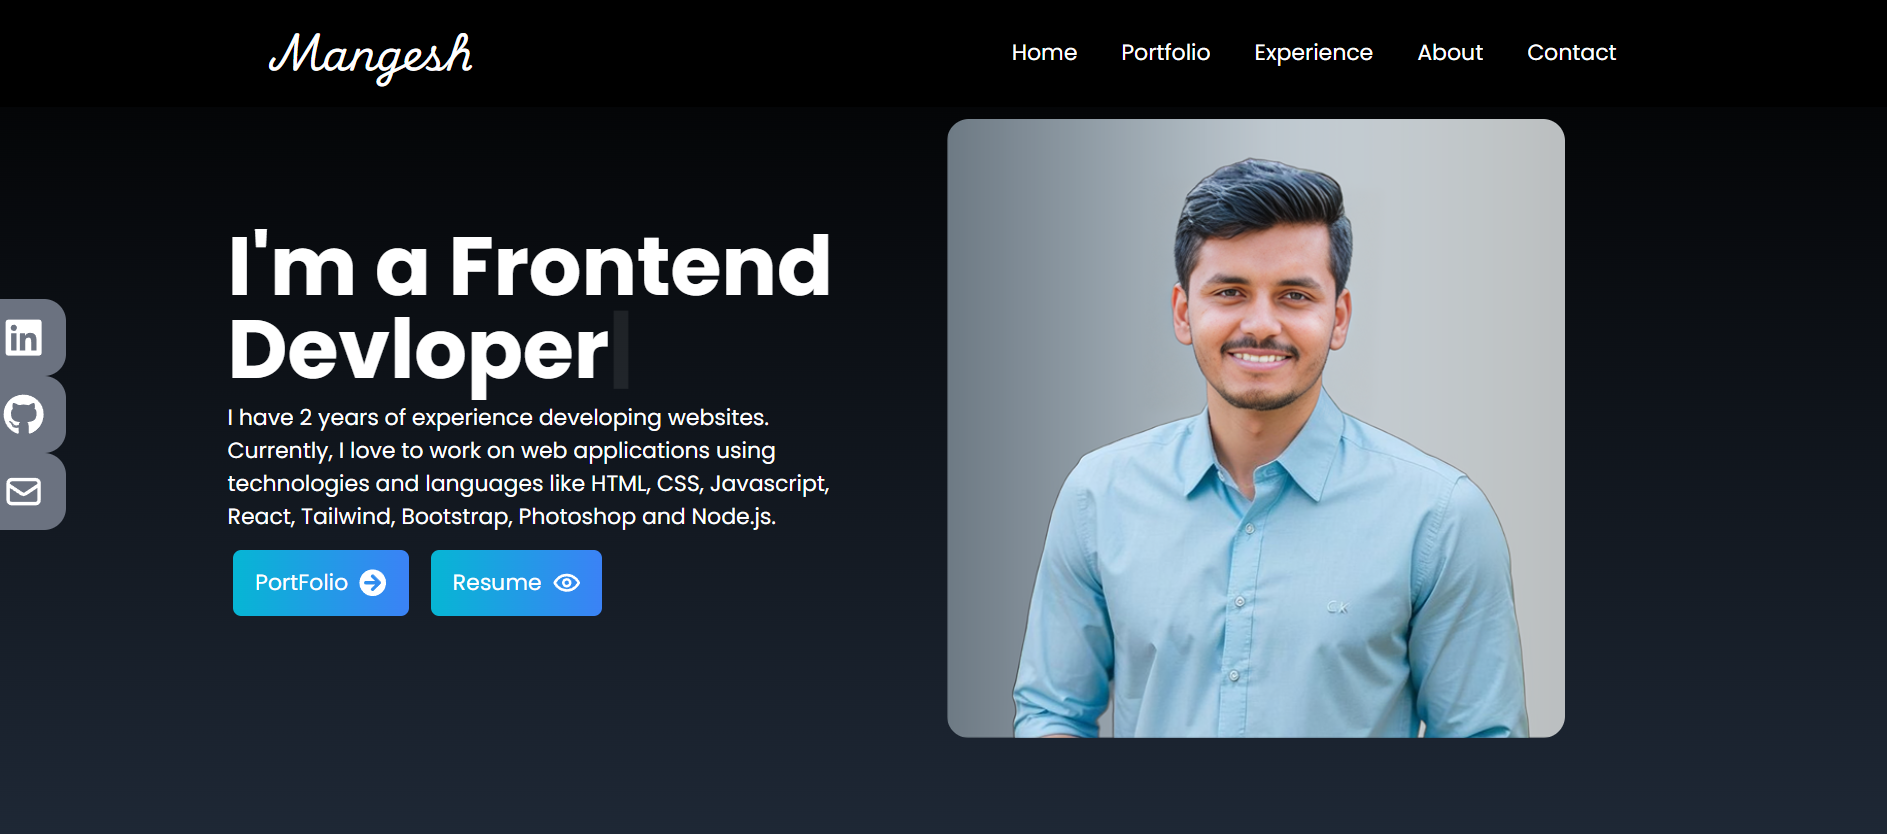
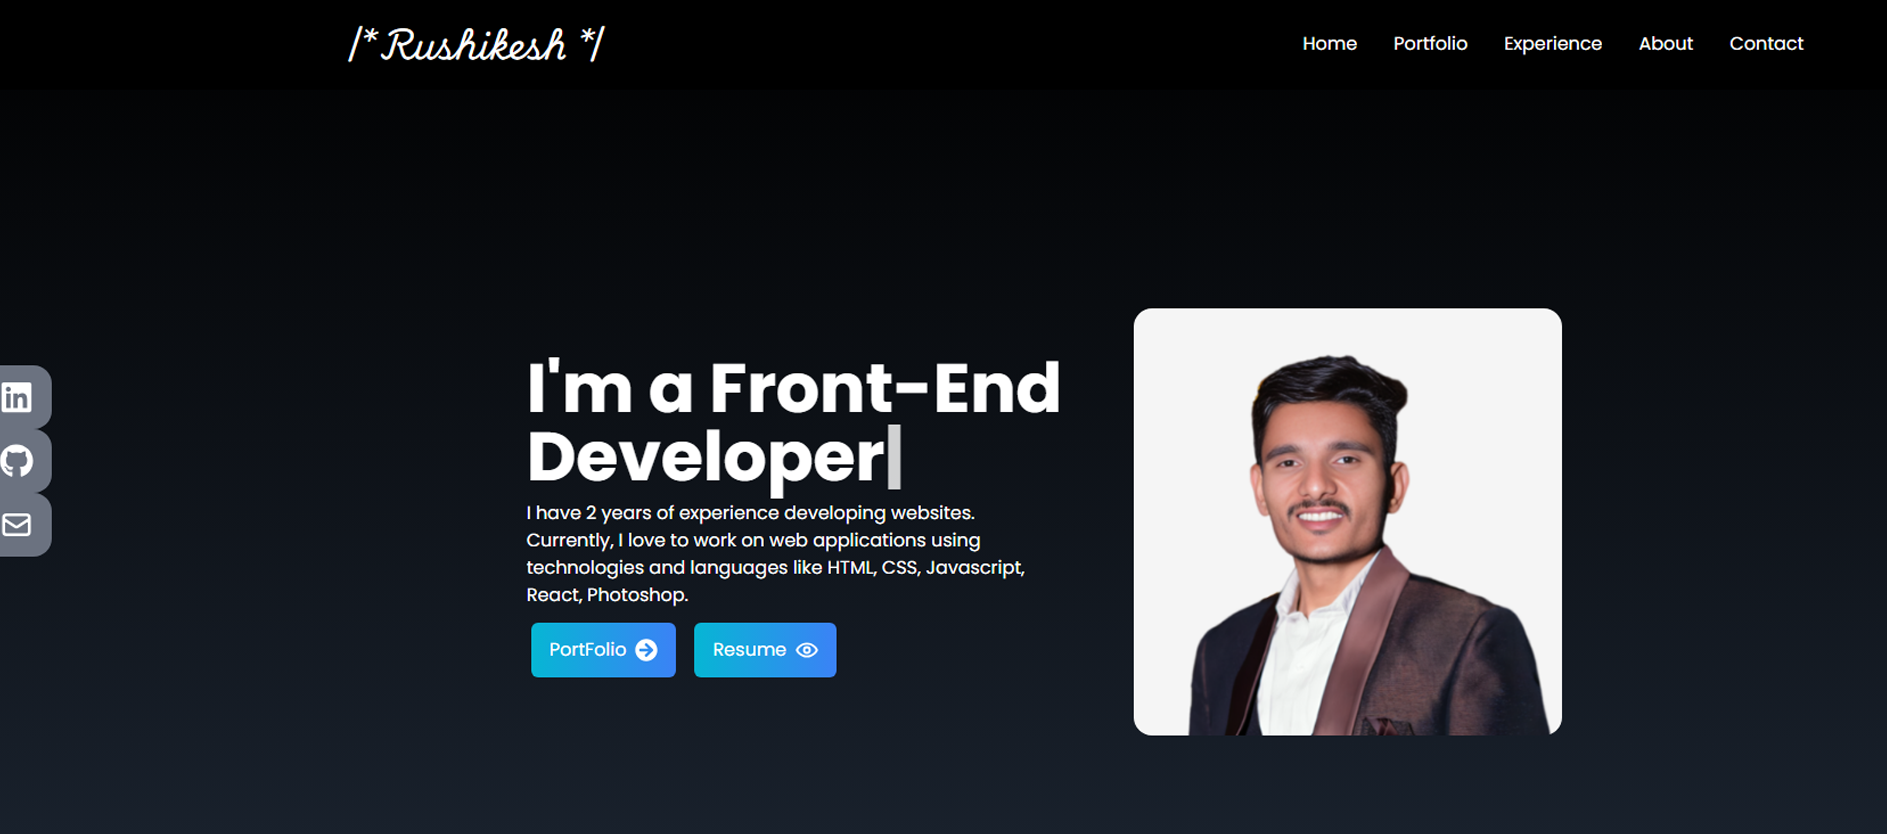
#

diff --git a/src/Components/Contact.jsx b/src/Components/Contact.jsx
@@ -2,12 +2,15 @@ import React, { useState, useRef } from "react";
 import emailjs from "@emailjs/browser";
 import leftImage from "../assets/LeftImage.jpeg"; // Correctly importing the image
 import { FaWhatsapp, FaInstagram, FaGithub, FaEnvelope } from "react-icons/fa";
+
 const Contact = () => {
   const form = useRef();
   const [done, setDone] = useState(false);
+  const [loading, setLoading] = useState(false);
 
   const sendEmail = (e) => {
     e.preventDefault();
+    setLoading(true);
 
     emailjs
       .sendForm(
@@ -21,35 +24,28 @@ const Contact = () => {
           console.log(result.text);
           setDone(true);
           form.reset();
+          setLoading(false);
         },
         (error) => {
           console.log(error.text);
+          setLoading(false);
         }
       );
   };
 
   return (
-    <div name="Contact" className="h-screen w-full bg-gradient-to-b from-black to-gray-800 p-3 text-white">
-      <div className="max-w-screen-lg h-full flex flex-col lg:flex-row justify-center items-center p-4 mx-auto">
+    <div
+      name="Contact"
+      className="bg-gradient-to-b from-black min-h-screen py-16 text-white to-gray-800 w-full"
+    >
+      <div className="max-w-7xl h-full flex flex-col lg:flex-row justify-center items-center p-4 mx-auto space-y-8 lg:space-y-0 ">
         
         {/* Left Side: Image and Social Media Links */}
-        <div
-          style={{
-            display: "flex",
-            flexDirection: "column",
-            justifyContent: "center",
-            alignItems: "center",
-            position: "relative",
-            left: "-18%",
-            top: "7%",
-            width: "100%",
-            marginBottom: window.innerWidth >= 1048 ? "0" : "32px",
-          }}
-        >
+        <div className="flex flex-col justify-center items-center space-y-4">
           <img
             src={leftImage}
             alt="Contact"
-            className="w-full h-auto rounded-md shadow-lg"
+            className="h-auto rounded-md object-cover shadow-lg sm:w-full"
           />
 
           {/* Social Media Buttons */}
@@ -58,7 +54,8 @@ const Contact = () => {
               href="https://wa.me/8408032420"
               target="_blank"
               rel="noopener noreferrer"
-              className="text-white hover:text-green-500 text-3xl"
+              aria-label="WhatsApp"
+              className="text-white hover:text-green-500 text-3xl transition-transform duration-200 transform hover:scale-110"
             >
               <FaWhatsapp />
             </a>
@@ -66,7 +63,8 @@ const Contact = () => {
               href="https://www.instagram.com/rrp_4747"
               target="_blank"
               rel="noopener noreferrer"
-              className="text-white hover:text-pink-500 text-3xl"
+              aria-label="Instagram"
+              className="text-white hover:text-pink-500 text-3xl transition-transform duration-200 transform hover:scale-110"
             >
               <FaInstagram />
             </a>
@@ -74,7 +72,8 @@ const Contact = () => {
               href="mailto:rushikeshpathare111@gmail.com"
               target="_blank"
               rel="noopener noreferrer"
-              className="text-white hover:text-red-500 text-3xl"
+              aria-label="Email"
+              className="text-white hover:text-red-500 text-3xl transition-transform duration-200 transform hover:scale-110"
             >
               <FaEnvelope />
             </a>
@@ -82,7 +81,8 @@ const Contact = () => {
               href="https://github.com/rushi4747"
               target="_blank"
               rel="noopener noreferrer"
-              className="text-white hover:text-gray-500 text-3xl"
+              aria-label="GitHub"
+              className="text-white hover:text-gray-500 text-3xl transition-transform duration-200 transform hover:scale-110"
             >
               <FaGithub />
             </a>
@@ -90,16 +90,12 @@ const Contact = () => {
         </div>
 
         {/* Right Side: Contact Form */}
-        <div className="flex flex-col justify-center items-center lg:w-1/2 w-full">
-          <h1 className="text-2xl md:text-4xl text-white font-bold">
-            Get in Touch Contact me
+        <div className="flex flex-col justify-center items-center lg:w-1/2 w-full space-y-4">
+          <h1 className="text-2xl md:text-4xl text-white font-bold text-center m-[14px]">
+            Submit the form to<br />get in touch with me.
           </h1>
-          <p className="py-4 text-center">
-            Submit the form to get in touch with me
-          </p>
-
           {/* Form */}
-          <form ref={form} onSubmit={sendEmail} className="flex flex-col w-full lg:w-[100%]">
+          <form ref={form} onSubmit={sendEmail} className="flex flex-col w-full lg:w-3/4">
             <input
               type="text"
               name="user_name"
@@ -123,17 +119,25 @@ const Contact = () => {
             ></textarea>
 
             {/* Submit Button */}
-            <button className="text-white bg-blue-700 mx-auto flex items-center rounded-lg hover:scale-105 duration-200 px-6 py-3 mt-4">
-              Send Message
+            <button
+              type="submit"
+              className={`text-white bg-blue-700 mx-auto flex items-center rounded-lg hover:scale-105 duration-200 px-6 py-3 mt-4 ${
+                loading ? "opacity-50 cursor-not-allowed" : ""
+              }`}
+              disabled={loading}
+            >
+              {loading ? "Sending..." : "Send Message"}
             </button>
 
             {/* Success Message */}
-            <span>{done && "Thanks for Contacting me!"}</span>
-
+            {done && (
+              <span className="text-green-500 mt-4 text-center">
+                Thanks for contacting me! I'll get back to you soon.
+              </span>
+            )}
           </form>
         </div>
       </div>
-      <div className="blur c-blur1" style={{ background: "var(--purple)" }}></div>
     </div>
   );
 };

diff --git a/src/Components/Home.jsx b/src/Components/Home.jsx
@@ -4,29 +4,31 @@ import { FaArrowCircleRight } from "react-icons/fa";
 import { PiEyeBold } from "react-icons/pi";
 import { Link } from "react-scroll";
 import Typed from "typed.js";
+
 const Home = () => {
   const el = useRef(null);
+
   useEffect(() => {
-    const typed = new Typed(el.current, {
-      strings: [" I&apos;m a Front-End<br> Developer "],
-      typeSpeed: 100,
-    });
-    return () => {
-      typed.destroy();
-    };
+    if (el.current) {
+      const typed = new Typed(el.current, {
+        strings: [" I&apos;m a Front-End<br> Developer "],
+        typeSpeed: 100,
+      });
+
+      return () => {
+        typed.destroy();
+      };
+    }
   }, []);
 
   return (
-    // main body div
     <div
       name="Home"
       className="h-screen w-full bg-gradient-to-b from-black to-gray-800 text-white"
     >
-      <div className=" mx-auto flex flex-col items-center justify-center h-full px-4 md:flex-row max-w-screen-xl">
-        {/* main text div */}
+      <div className=" mx-auto max-w-7xl flex flex-col items-center justify-center h-full px-4 md:flex-row max-w-screen-xl">
         <div className="flex flex-col justify-center h-1/2 ">
-          {/* text div */}
-          <h2 className="text-white font-bold text-3xl  sm:text-6xl pb-2 ">
+          <h2 className="text-white font-bold text-3xl sm:text-6xl pb-2">
             <span ref={el}></span>
           </h2>
           <p className="text-white max-w-md">
@@ -34,7 +36,7 @@ const Home = () => {
             to work on web applications using technologies and languages like
             HTML, CSS, Javascript, React, Photoshop.
           </p>
-          <div className="flex flex-row  m-1"> 
+          <div className="flex flex-row m-1">
             <Link
               to="Portfolio"
               smooth
@@ -47,32 +49,29 @@ const Home = () => {
               </span>
             </Link>
 
-            <button className="group text-white w-fit px-4 py-3 my-2 flex items-center rounded-md bg-gradient-to-r from-cyan-500 to-blue-500 cursor-pointer">
-              <a
-                href="/public/Mangesh_Lemte_Resume.pdf"
-                target="_blank"
-                rel="noopener noreferrer"
-                 download="resume.pdf"
-              >
-                Resume
-              </a>
+            <a
+              href="/public/Mangesh_Lemte_Resume.pdf"
+              target="_blank"
+              rel="noopener noreferrer"
+              download="resume.pdf"
+              className="group text-white w-fit px-4 py-3 my-2 flex items-center rounded-md bg-gradient-to-r from-cyan-500 to-blue-500 cursor-pointer"
+            >
+              Resume
               <span>
                 <PiEyeBold size={20} className="group-hover:scale-125 ml-2" />
               </span>
-            </button>
+            </a>
           </div>
         </div>
         <div className="">
           <img
             src={HeroImg}
             alt="My Profile"
-            className="rounded-2xl mx-auto w-3/4  "
+            className="rounded-2xl mx-auto w-3/4"
             loading="lazy"
           />
         </div>
       </div>
-
-      {/* image div */}
     </div>
   );
 };

diff --git a/src/Components/Portfolio.jsx b/src/Components/Portfolio.jsx
@@ -46,7 +46,7 @@ const Portfolio = () => {
     {
       id: 6,
       src: PM,
-      link: "https://mangesh-portfolio-rt.vercel.app/",
+      link: "https://rushikesh-portfolio47.vercel.app/",
       name: "Personal PortFolio",
       Stack: "HTML, CSS, Javascript, React.js, Tailwind, React Router",
     },
@@ -63,7 +63,7 @@ const Portfolio = () => {
       name="Portfolio"
       className="bg-gradient-to-b from-black to-gray-800 w-full  text-white  md:h-auto h-auto "
     >
-      <div className=" max-w-screen-xl  mx-auto flex-col flex  h-full  pt-7 w-full p-4 ">
+      <div className=" max-w-7xl  mx-auto flex-col flex  h-full  pt-7 w-full p-4 ">
         <div className="pb-4">
           <p className="text-4xl font-bold inline border-b-4 border-gray-400">
             Portfolio

diff --git a/src/Components/Experience.jsx b/src/Components/Experience.jsx
@@ -44,7 +44,7 @@ const Experience = () => {
       name="Experience"
       className="bg-gradient-to-b from-black to-gray-800 w-full h-auto text-white flex justify-center   md:h-auto "
     >
-      <div className="max-w-screen-xl flex flex-col w-full mx-auto p-4 px-5 h-full">
+      <div className="max-w-7xl flex flex-col w-full mx-auto p-4 px-5 h-full">
         <div className=" pb-4  ">
           <p className="text-4xl font-bold inline border-b-4 border-gray-500 ">
             Experience

diff --git a/src/Components/About.jsx b/src/Components/About.jsx
@@ -6,7 +6,7 @@ const About = () => {
       name="About"
       className="w-full h-auto bg-gradient-to-b from-black  to-gray-800 text-white "
     >
-      <div className="max-w-screen-xl p-4 mx-auto flex flex-col justify-center w-full h-full ">
+      <div className="max-w-7xl p-4 mx-auto flex flex-col justify-center w-full h-full ">
         <div className="pb-8 ">
           <p className="text-4xl bold inline border-b-4 border-gray-200">About</p>
         </div>
